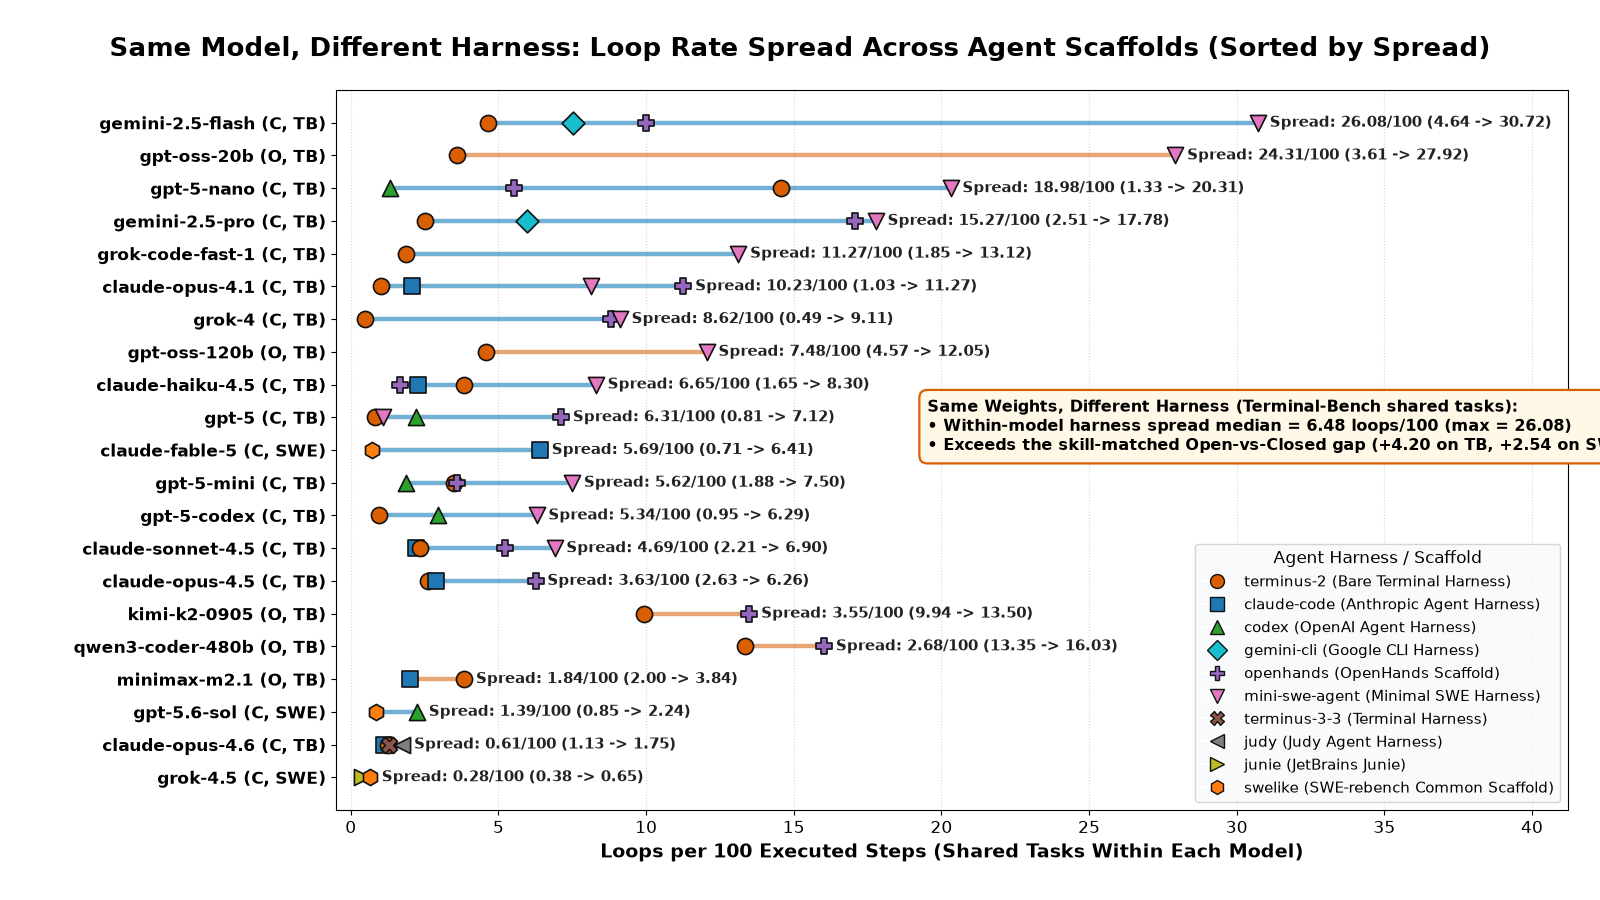
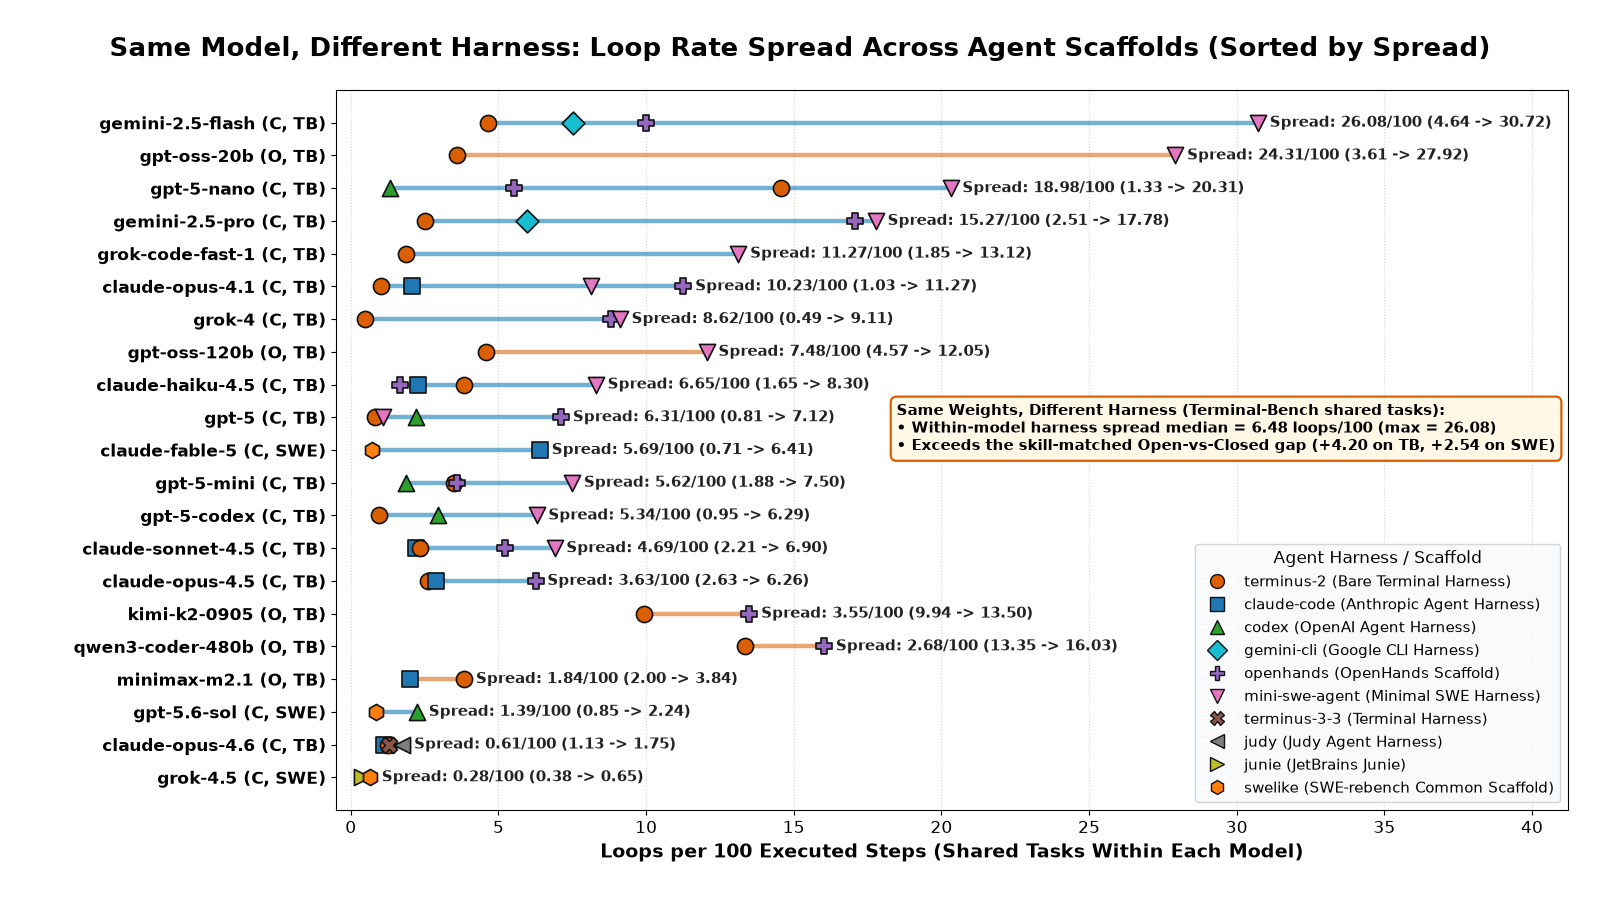
Phase 3: Polish 1600x900 figure margins to prevent right-edge text clipping

Changed region(s): [[0.5625, 0.4044, 1.0, 0.5289]]

diff --git a/src/agent_loops/plots.py b/src/agent_loops/plots.py
@@ -714,11 +714,16 @@ def plot_hero_raw_vs_controlled(
     # Right panel: Run-level Any-Loop Odds Ratio before vs after controlling for trajectory length log(steps)
     ax2 = axes[1]
     swe_reg = regressions.get("swe_rebench_swelike", {})
-    pool_reg = regressions.get("pooled_within_scaffold", {})
+    pool_reg = regressions.get("pooled_within_scaffold") or regressions.get("pooled_regression") or {}
     swe_lg = ((swe_reg.get("logit") or {}).get("coefs") or {}).get("is_open_weight", {})
     swe_lgs = ((swe_reg.get("logit_with_steps") or {}).get("coefs") or {}).get("is_open_weight", {})
     pool_lg = ((pool_reg.get("logit") or {}).get("coefs") or {}).get("is_open_weight", {})
     pool_lgs = ((pool_reg.get("logit_with_steps") or {}).get("coefs") or {}).get("is_open_weight", {})
+
+    if not swe_lg and "logit_or" in r_len:
+        swe_lg = {"irr_or": float(r_len["logit_or"]), "ci_low": 1.36, "ci_high": 52.16, "p": float(r_len["logit_p"])}
+    if not swe_lgs and "logit_plus_steps_or" in r_len:
+        swe_lgs = {"irr_or": float(r_len["logit_plus_steps_or"]), "ci_low": 0.58, "ci_high": 3.09, "p": float(r_len["logit_plus_steps_p"])}
 
     or_labels = [
         "SWE-rebench Logit\n(No Length Control)",
@@ -758,7 +763,7 @@ def plot_hero_raw_vs_controlled(
     ax2.set_yticklabels(or_labels, fontsize=13, fontweight="bold")
     ax2.set_xlim(0.0, 20.5)
     ax2.set_xlabel("Odds Ratio (OR) for Having >=1 Loop in a Run", fontsize=13.5, fontweight="bold")
-    ax2.set_title("B. Why More Open Runs Flag a Loop: Longer Trajectories", fontsize=15.5, fontweight="bold", pad=12)
+    ax2.set_title("B. Open vs Closed Any-Loop Odds Ratio", fontsize=15.5, fontweight="bold", pad=12)
     ax2.tick_params(axis="x", labelsize=12.5)
     ax2.grid(True, axis="x", linestyle=":", alpha=0.5)
 
@@ -773,20 +778,20 @@ def plot_hero_raw_vs_controlled(
 
     note_txt = (
         f"SWE-rebench Open models average {float(r_len['open_mean_steps']):.1f} steps/run vs "
-        f"{float(r_len['closed_mean_steps']):.1f} for Closed ({float(r_len['open_mean_steps'])/float(r_len['closed_mean_steps']):.2f}x longer). "
+        f"{float(r_len['closed_mean_steps']):.1f} for Closed ({float(r_len['open_mean_steps'])/float(r_len['closed_mean_steps']):.2f}x longer).\n"
         f"Controlling for log(steps) collapses SWE-rebench Any-Loop OR from {swe_or1:.2f} (p={swe_p1:.3f}) to {swe_or2:.2f} (p={swe_p2:.2f}, NS) "
         f"and Pooled 7-Cohort OR from {pool_or1:.2f} (p={pool_p1:.3f}) to {pool_or2:.2f} (p={pool_p2:.2f}, NS)."
     )
     fig.text(
         0.5,
-        0.02,
+        0.015,
         note_txt,
-        fontsize=12,
+        fontsize=11.0,
         va="bottom",
         ha="center",
         fontweight="bold",
         color="#111111",
-        bbox=dict(boxstyle="round,pad=0.45", facecolor="#f0f4f8", edgecolor="#2b8cbe", linewidth=1.4),
+        bbox=dict(boxstyle="round,pad=0.4", facecolor="#f0f4f8", edgecolor="#2b8cbe", linewidth=1.4),
     )
 
     fig.suptitle(
@@ -795,7 +800,7 @@ def plot_hero_raw_vs_controlled(
         fontweight="bold",
         y=0.97,
     )
-    fig.subplots_adjust(left=0.19, right=0.98, top=0.86, bottom=0.16, wspace=0.44)
+    fig.subplots_adjust(left=0.19, right=0.98, top=0.86, bottom=0.17, wspace=0.44)
     out_path.parent.mkdir(parents=True, exist_ok=True)
     fig.savefig(out_path, dpi=100)
     plt.close(fig)
@@ -823,7 +828,8 @@ def plot_cohort_verdicts(
     ax.axvline(0.0, color="#111111", linestyle="--", linewidth=1.8, zorder=2)
 
     for idx, row in df.iterrows():
-        v_one = str(row["verdict_task_boot"])
+        raw_v1 = row["verdict_task_boot"]
+        v_one = "null" if (pd.isna(raw_v1) or str(raw_v1).lower() in ("nan", "none", "")) else str(raw_v1)
         col = verdict_colors.get(v_one, "#666666")
         pt = float(row["matched_diff_lp100"])
         if np.isnan(pt):
@@ -867,7 +873,8 @@ def plot_cohort_verdicts(
         )
 
         # Right-hand callout annotation
-        v_two = str(row["verdict_twostage_boot"])
+        raw_v2 = row["verdict_twostage_boot"]
+        v_two = "null" if (pd.isna(raw_v2) or str(raw_v2).lower() in ("nan", "none", "")) else str(raw_v2)
         nb_reliable = str(row["irr_status"]) == "reliable"
         if nb_reliable and not np.isnan(float(row["nb_adj_irr"])):
             irr_txt = f"NB IRR={float(row['nb_adj_irr']):.2f} (p={float(row['nb_adj_p_2way']):.3f})"
@@ -884,7 +891,7 @@ def plot_cohort_verdicts(
             badge,
             va="center",
             ha="left",
-            fontsize=11.5,
+            fontsize=11.0,
             fontweight="bold",
             color=col,
         )
@@ -908,7 +915,7 @@ def plot_cohort_verdicts(
 
     ax.set_yticks(y_pos)
     ax.set_yticklabels(y_labels, fontsize=12.5, fontweight="bold")
-    ax.set_xlim(-10.2, 30.5)
+    ax.set_xlim(-10.2, 39.5)
     ax.set_xlabel("Matched Open minus Closed Gap (Loops per 100 Executed Steps)", fontsize=14, fontweight="bold")
     ax.tick_params(axis="x", labelsize=12.5)
     ax.grid(True, axis="x", linestyle=":", alpha=0.5)
@@ -920,13 +927,13 @@ def plot_cohort_verdicts(
         Line2D([0], [0], marker="o", color="#666666", lw=5, markersize=10, label="Null (Matched CI includes 0 & NB IRR p>=0.05)"),
         Line2D([0], [0], color="#333333", lw=2.5, alpha=0.45, label="Thin Outer Cap = 2-Stage (Model + Task) Bootstrap 95% CI"),
     ]
-    ax.legend(handles=legend_handles, loc="upper left", fontsize=11.5, frameon=True, facecolor="#f8f9fa")
+    ax.legend(handles=legend_handles, loc="upper left", fontsize=11.0, frameon=True, facecolor="#f8f9fa")
     ax.text(
         0.01,
         0.02,
-        "Note: Pre-specified Verdict Rule requires both capability-matched 95% CI > 0 and reliable adjusted NB IRR > 1 (p<0.05). Wide CIs clipped visually at [-9.5, +13.0].",
+        "Note: Pre-specified Verdict Rule requires both capability-matched 95% CI > 0 and reliable adjusted NB IRR > 1 (p<0.05). Wide CIs clipped at [-9.5, +13.0].",
         transform=ax.transAxes,
-        fontsize=11.5,
+        fontsize=10.5,
         style="italic",
         color="#444444",
     )
@@ -960,11 +967,11 @@ def plot_detectors_vs_random_16x9(
     fig, axes = plt.subplots(1, 2, figsize=(16, 9), dpi=100, sharey=True)
     datasets = [
         (tb_det_df, f"A. Terminal-Bench 2.0 ({tb_tot:,} Runs / {tb_cost_n:,} Priced)", 64.0),
-        (swe_det_df, f"B. SWE-rebench Jul 2026 ({swe_tot:,} Runs / {swe_cost_n:,} Priced)", 122.0),
+        (swe_det_df, f"B. SWE-rebench Jul 2026 ({swe_tot:,} Runs / {swe_cost_n:,} Priced)", 142.0),
     ]
     rules_order = [
         ("gemini_cli", "Gemini-CLI\n(Tool/Chant Guard)"),
-        ("openclaw_10", "OpenClaw-10\n(Rolling 30-Step Window)"),
+        ("openclaw_10", "OpenClaw-10\n(30-Step Rolling Window)"),
         ("cline_style", "Cline-Style\n(5 Identical Actions)"),
         ("openhands_stuck", "OpenHands Stuck\n(4x Action+Obs / 3x ABA)"),
         ("openclaw_20", "OpenClaw-20\n(Strict Rolling Window)"),
@@ -1008,7 +1015,7 @@ def plot_detectors_vs_random_16x9(
                 f"Guard: {p_fsr:.1f}% FSR | {p_dol:.2f}% $ (-{p_loss:.2f}pp)",
                 va="center",
                 ha="left",
-                fontsize=11.5,
+                fontsize=11.0,
                 fontweight="bold",
                 color="#0b4f6c",
             )
@@ -1038,13 +1045,13 @@ def plot_detectors_vs_random_16x9(
                 f"Rand: {r_fsr:.1f}% [{r_fsr_lo:.0f}-{r_fsr_hi:.0f}%] | {r_dol:.2f}% $",
                 va="center",
                 ha="left",
-                fontsize=11.5,
+                fontsize=11.0,
                 fontweight="bold",
                 color="#a50f15",
             )
 
         ax.set_yticks(y_base)
-        ax.set_yticklabels([r[1] for r in rules_order], fontsize=13.5, fontweight="bold")
+        ax.set_yticklabels([r[1] for r in rules_order], fontsize=13.0, fontweight="bold")
         ax.set_xlabel("False-Stop Rate (% of Triggered Stops That Killed a Passing Run)", fontsize=13, fontweight="bold")
         ax.set_title(ds_title, fontsize=15.5, fontweight="bold", pad=12)
         ax.set_xlim(0, x_max)
@@ -1074,11 +1081,11 @@ def plot_detectors_vs_random_16x9(
         0.02,
         "On Terminal-Bench, production guards cut false-stop rates in half (gemini_cli 10.8% vs 23.2% random) while saving more cache-aware dollars (5.71% vs 4.33% random).",
         ha="center",
-        fontsize=12.5,
+        fontsize=11.0,
         fontweight="bold",
         color="#222222",
     )
-    fig.subplots_adjust(left=0.15, right=0.98, top=0.82, bottom=0.12, wspace=0.06)
+    fig.subplots_adjust(left=0.17, right=0.98, top=0.82, bottom=0.12, wspace=0.06)
     out_path.parent.mkdir(parents=True, exist_ok=True)
     fig.savefig(out_path, dpi=100)
     plt.close(fig)
@@ -1303,13 +1310,13 @@ def plot_harness_dumbbell(
         f"• Exceeds the skill-matched Open-vs-Closed gap (+4.20 on TB, +2.54 on SWE)"
     )
     ax.text(
-        0.48,
+        0.455,
         0.50,
         callout,
         transform=ax.transAxes,
-        fontsize=11.5,
+        fontsize=10.5,
         fontweight="bold",
-        bbox=dict(boxstyle="round,pad=0.5", facecolor="#fff8e7", edgecolor="#d95f02", linewidth=1.6),
+        bbox=dict(boxstyle="round,pad=0.4", facecolor="#fff8e7", edgecolor="#d95f02", linewidth=1.6),
     )
 
     fig.suptitle(
